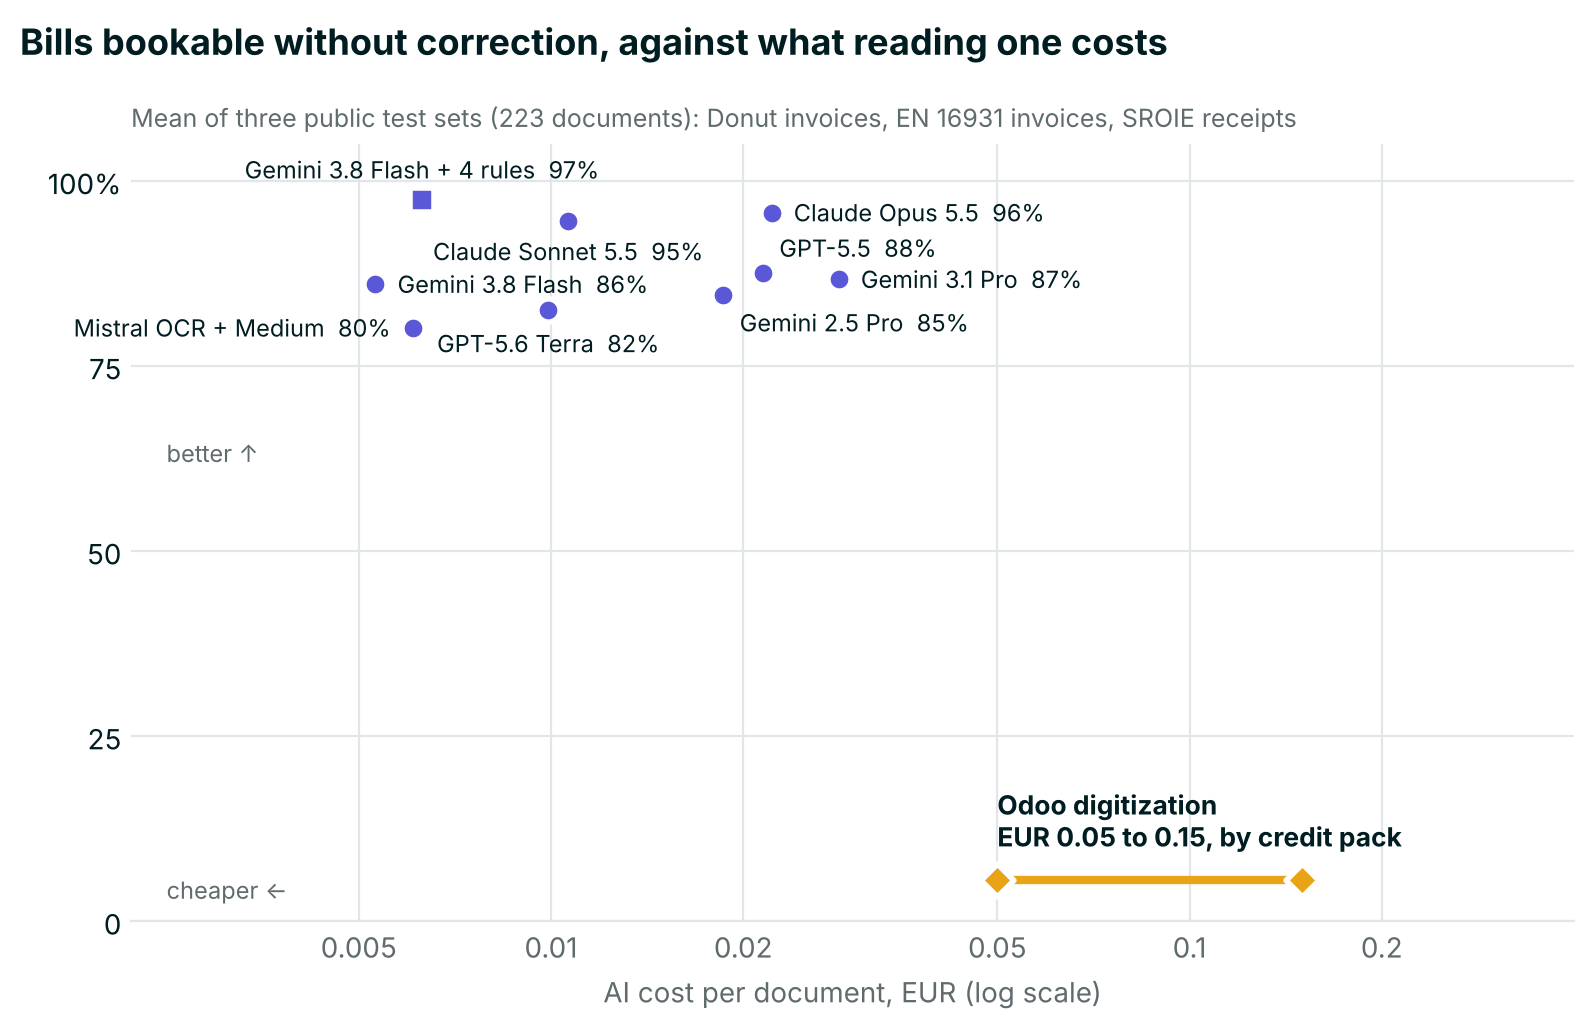
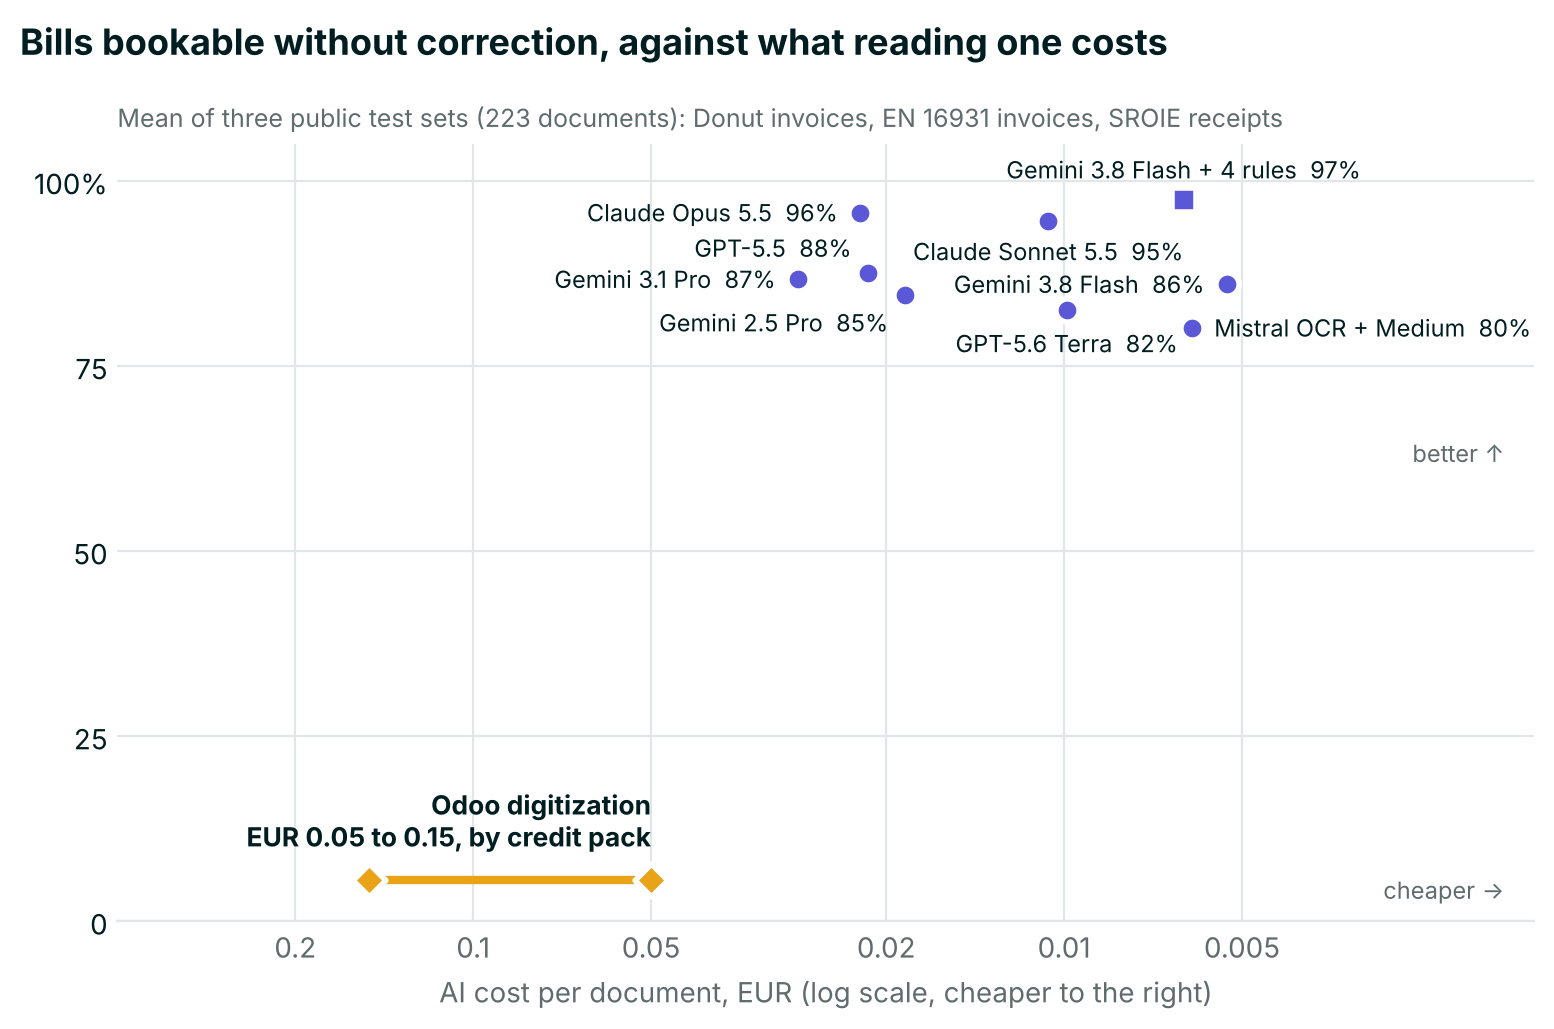
Figure 0: cost axis inverted so better is top right
Claude-Session: https://claude.ai/code/session_016iWLdCryD4odPhwVUehDjX

diff --git a/src/fig_overview.py b/src/fig_overview.py
@@ -7,7 +7,7 @@ Usage:
     python src/fig_overview.py results figures
 
 y: share of documents bookable without correction, the mean of the three
-sets (each set weighs the same). x: AI cost per document, log scale. Odoo is
+sets (each set weighs the same). x: AI cost per document, log scale, inverted so that better is top right. Odoo is
 a range, from its largest to its smallest credit pack. Writes
 figures/fig0_overview.png and .svg.
 """
@@ -28,12 +28,12 @@ from aggregate import ODOO_CREDIT_EUR, ODOO_CREDIT_EUR_BULK, USD_EUR  # noqa: E4
 from figures import GRID, INK, LLM, MUTED, NAMES, ODOO, SETS, load, mean, save  # noqa: E402
 
 RULES = "gemini-flash"  # the H3 arm shown as its own point
-PLACE = {
+PLACE = {  # the x axis runs from dear (left) to cheap (right), so better is top right
     "Gemini 3.8 Flash + 4 rules": (0, 11, "center"),
-    "GPT-5.5": (6, 9, "left"),
-    "Gemini 2.5 Pro": (6, -10, "left"),
+    "GPT-5.5": (-6, 9, "right"),
+    "Gemini 2.5 Pro": (-6, -10, "right"),
     "GPT-5.6 Terra": (0, -12, "center"),
-    "Mistral OCR + Medium": (-8, 0, "right"),
+    "Mistral OCR + Medium": (8, 0, "left"),
     "Claude Sonnet 5.5": (0, -11, "center"),
 }
 
@@ -73,7 +73,7 @@ def main() -> None:
                 ax.scatter(x, book, marker="D", s=70, color=ODOO, edgecolor="white", lw=2, zorder=3)
             ax.annotate("Odoo digitization\nEUR 0.05 to 0.15, by credit pack",
                         (ODOO_CREDIT_EUR_BULK, book), xytext=(0, 12), textcoords="offset points",
-                        ha="left", fontsize=9.5, fontweight="bold", color=INK)  # fmt: skip
+                        ha="right", fontsize=9.5, fontweight="bold", color=INK)  # fmt: skip
             continue
         rules = name.endswith("rules")
         ax.scatter(cost, book, s=70, marker="s" if rules else "o", color=LLM,
@@ -82,24 +82,24 @@ def main() -> None:
     # overlaps (offset in points, horizontal alignment). Unknown names go right.
     for name, cost, book in pts:
         if name != "Odoo":
-            dx, dy, ha = PLACE.get(name, (8, 0, "left"))
+            dx, dy, ha = PLACE.get(name, (-8, 0, "right"))
             ax.annotate(f"{name}  {book:.0f}%", (cost, book), xytext=(dx, dy),
                         textcoords="offset points", ha=ha, va="center", fontsize=8.5,
                         color=INK)  # fmt: skip
     ax.set_xscale("log")
-    ax.set_xlim(0.0022, 0.4)
+    ax.set_xlim(0.4, 0.0016)  # inverted: cheaper to the right
     ticks = [0.005, 0.01, 0.02, 0.05, 0.1, 0.2]
     ax.xaxis.set_major_locator(FixedLocator(ticks))
     ax.xaxis.set_minor_locator(NullLocator())
     ax.set_xticklabels([f"{t:g}" for t in ticks])
-    ax.set_xlabel("AI cost per document, EUR (log scale)")
+    ax.set_xlabel("AI cost per document, EUR (log scale, cheaper to the right)")
     ax.set_ylim(0, 105)
     ax.set_yticks([0, 25, 50, 75, 100], ["0", "25", "50", "75", "100%"])
     ax.grid(color=GRID, lw=0.8)
     ax.set_axisbelow(True)
     ax.tick_params(length=0)
-    ax.annotate("better ↑", (0.0025, 62), fontsize=8.5, color=MUTED, ha="left")
-    ax.annotate("cheaper ←", (0.0025, 3), fontsize=8.5, color=MUTED, ha="left")
+    ax.annotate("better ↑", (0.0018, 62), fontsize=8.5, color=MUTED, ha="right")
+    ax.annotate("cheaper →", (0.0018, 3), fontsize=8.5, color=MUTED, ha="right")
     fig.suptitle("Bills bookable without correction, against what reading one costs",
                  x=0.01, ha="left", fontsize=13, fontweight="bold", color=INK)  # fmt: skip
     ax.set_title("Mean of three public test sets (223 documents): Donut invoices, EN 16931 "
